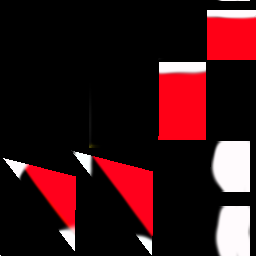
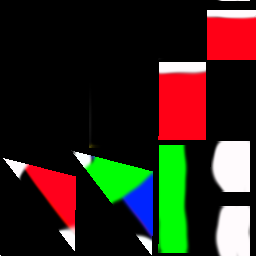
Fixed texture coords, added in place framework for normals, though they don't draw yet.

Changed region(s): [[0.3125, 0.5625, 0.75, 1.0]]

diff --git a/src/com/discretesoftworks/framework/RenderModel.java b/src/com/discretesoftworks/framework/RenderModel.java
@@ -21,48 +21,58 @@ public class RenderModel extends GriddedObject{
 	
 	
     private final String vertexShaderCode =
-   		//Test
     	"attribute vec2 a_TexCoordinate;" +
     	"varying vec2 v_TexCoordinate;" +
-    	//End Test
+    	"varying vec4 lightness;" +
+    	
+    	//Lights
+    	"uniform vec4 lightPos;"+
+    	"uniform vec4 lightColor;"+
 
-        "uniform mat4 uMVPMatrix;" +
+        "uniform mat4 uMMatrix;" +
+        "uniform mat4 uVPMatrix;" +
 
         "attribute vec4 vPosition;" +
         "void main() {" +
-
-        "  gl_Position = uMVPMatrix * vPosition;" +
-		      //Test
-		      "v_TexCoordinate = a_TexCoordinate;" +
-		      //End Test
+        "  vec4 worldPos = uMMatrix * vPosition;"+
+        "  gl_Position = uVPMatrix * worldPos;" +
+		"  v_TexCoordinate = a_TexCoordinate;" +
+		"  vec4 normal = vec4(0.0,0.0,1.0,0.0);"+
+        "  float distance = length(lightPos-worldPos);"+
+        "  float dottedAngle = dot(normalize(lightPos-worldPos),normal);" +
+		"  lightness = (lightColor * dottedAngle) * (1.0 / (1.0 + distance * distance));"+
+        "  lightness = vec4(lightness.xyz,1.0);"+
         "}";
 
     private final String fragmentShaderCode =
         "precision mediump float;" +
         "uniform vec4 vColor;" +
-	      //Test
-	      "uniform sampler2D u_Texture;" +
-	      "varying vec2 v_TexCoordinate;" +
-	      //End Test
+	    "uniform sampler2D u_Texture;" +
+	    "varying vec2 v_TexCoordinate;" +
+	    "varying vec4 lightness;" +
+	    
         "void main() {" +
-        //"  gl_FragColor = vColor;" +
-        "gl_FragColor = (vColor * texture2D(u_Texture, v_TexCoordinate));" +
-        //"    gl_FragColor = vColor * vec4(v_TexCoordinate.x, v_TexCoordinate.y, 0, 1);"+
+        "  gl_FragColor = (lightness * vColor * texture2D(u_Texture, v_TexCoordinate));" +
         "}";
 
     private FloatBuffer vertexBuffer;
+    private FloatBuffer normalBuffer;
     private ShortBuffer drawListBuffer;
     private int mProgram;
     private int mPositionHandle;
     private int mColorHandle;
-    private int mMVPMatrixHandle;
+    private int mMMatrixHandle;
+    private int mVPMatrixHandle;
+    private int lightPosHandle;
+    private int lightColorHandle;
 
     // number of coordinates per vertex in this array
 
     static final int COORDS_PER_VERTEX = 3;
     //private PointF topLeft = new PointF(0,0);
     private float[] mModelMatrix = new float[16];
-    private float[] mvpMatrix = new float[16];
+    private float[] identityMatrix = new float[16];
+//    private float[] mvpMatrix = new float[16];
     private float[] coords; /*= { -0.5f,  0.5f, 0f,
             						 -0.5f, -0.5f, 0f,
             						  0.5f, -0.5f, 0f,
@@ -78,6 +88,7 @@ public class RenderModel extends GriddedObject{
     private final int vertexStride = COORDS_PER_VERTEX * 4; // 4 bytes per vertex
     
     private float[] texCoords;
+    private float[] normals;
 
     // Set color with red, green, blue and alpha (opacity) values
     float color[] = { .75f, .75f, .75f, 1.0f };
@@ -111,12 +122,15 @@ public class RenderModel extends GriddedObject{
         set = false;
         spin = true;
         newDir = dir = 0f;
+        
+        Matrix.setIdentityM(identityMatrix, 0);
     }
     
-    public void setupModel(float[] verts, float[] textureCoords, short[] indicies) {
+    public void setupModel(float[] verts, float[] normalCoords, float[] textureCoords, short[] indicies) {
     	coords = verts;
     	texCoords = textureCoords;
     	drawOrder = indicies;
+    	normals = normalCoords;
     	
     	// initialize vertex byte buffer for shape coordinates
         ByteBuffer bb = ByteBuffer.allocateDirect(
@@ -124,8 +138,17 @@ public class RenderModel extends GriddedObject{
                 coords.length * 4);
         bb.order(ByteOrder.nativeOrder());
         vertexBuffer = bb.asFloatBuffer();
-        setSize(coords);
+        vertexBuffer.put(coords);
+        vertexBuffer.position(0);
         
+        
+        ByteBuffer bn = ByteBuffer.allocateDirect(
+        					//#) of normal values * 4 bytes per float
+        					normals.length * 4);
+        bn.order(ByteOrder.nativeOrder());
+        normalBuffer = bn.asFloatBuffer();
+        normalBuffer.put(normals);
+        normalBuffer.position(0);
         
         // S, T (or X, Y)
         // Texture coordinate data.
@@ -175,12 +198,16 @@ public class RenderModel extends GriddedObject{
    			 					 -width, -height, 0f,
    			 					  width, -height, 0f,
    			 					  width,  height, 0f };
+    	float[] squareNormals = { 0.0f, 0.0f, 1.0f,
+    							  0.0f, 0.0f, 1.0f,
+    							  0.0f, 0.0f, 1.0f,
+    							  0.0f, 0.0f, 1.0f};
     	float[] textureCoords = { 0.0f,  0.0f,
    	        					  0.0f,  1.0f,
    	        					  1.0f,  1.0f,
    	        					  1.0f,  0.0f };
    	    short[] squareDrawOrder = { 0, 1, 2, 0, 2, 3 };
-   	    setupModel(squareCoords, textureCoords, squareDrawOrder);
+   	    setupModel(squareCoords, squareNormals, textureCoords, squareDrawOrder);
     }
     
     public void set(float x, float y, float width, float height){
@@ -268,10 +295,6 @@ public class RenderModel extends GriddedObject{
     	mTextureCoordinates.put(texCoords).position(0);
     }
     
-    public void setSize(float[] squareCoords){
-        vertexBuffer.put(squareCoords).position(0);
-    }
-    
     public void setHudElement(boolean h){
     	this.hudElement = h;
     	if (h)
@@ -334,24 +357,24 @@ public class RenderModel extends GriddedObject{
 	          	dir -= 360;
 	        else if (dir < -180)
 	           	dir += 360;
-            
+
 	        // Add program to OpenGL environment
 	        GLES20.glUseProgram(mProgram);
-	
+	        MyGLRenderer.checkGlError("glGetUniformLocation");
 	        // get handle to vertex shader's vPosition member
 	        mPositionHandle = GLES20.glGetAttribLocation(mProgram, "vPosition");
-	
+
 	        // Enable a handle to the triangle vertices
 	        GLES20.glEnableVertexAttribArray(mPositionHandle);
-	
+
 	        // Prepare the triangle coordinate data
 	        GLES20.glVertexAttribPointer(mPositionHandle, COORDS_PER_VERTEX,
 	                                     GLES20.GL_FLOAT, false,
 	                                     vertexStride, vertexBuffer);
-	
+
 	        // get handle to fragment shader's vColor member
 	        mColorHandle = GLES20.glGetUniformLocation(mProgram, "vColor");
-	
+
 	        // Set color for drawing the triangle
 	        GLES20.glUniform4fv(mColorHandle, 1, color, 0);
 	        
@@ -359,6 +382,7 @@ public class RenderModel extends GriddedObject{
 	        //Set Texture Handles and bind Texture
 	        mTextureUniformHandle = GLES20.glGetAttribLocation(mProgram, "u_Texture");
 	        mTextureCoordinateHandle = GLES20.glGetAttribLocation(mProgram, "a_TexCoordinate");
+
 
 	        //Set the active texture unit to texture unit 0.
 	        GLES20.glActiveTexture(GLES20.GL_TEXTURE0);
@@ -378,18 +402,25 @@ public class RenderModel extends GriddedObject{
 	        GLES20.glBlendFunc(GLES20.GL_ONE, GLES20.GL_ONE_MINUS_SRC_ALPHA);
 	        GLES20.glEnable(GLES20.GL_BLEND);
 	        
+	        //Pass in lights
+	        lightPosHandle = GLES20.glGetUniformLocation(mProgram, "lightPos");
+	        lightColorHandle = GLES20.glGetUniformLocation(mProgram, "lightColor");
+	        GLES20.glUniform4f(lightPosHandle, 50.0f, 50.0f, 500.0f, 1.0f);
+	        GLES20.glUniform4f(lightColorHandle, 300000.0f, 300000.0f, 300000.0f, 1.0f);
 	
-	        // get handle to shape's transformation matrix
-	        mMVPMatrixHandle = GLES20.glGetUniformLocation(mProgram, "uMVPMatrix");
+	        // get handle to shape's transformation matrixs
+	        mMMatrixHandle = GLES20.glGetUniformLocation(mProgram, "uMMatrix");
+	        mVPMatrixHandle = GLES20.glGetUniformLocation(mProgram, "uVPMatrix");
 	        MyGLRenderer.checkGlError("glGetUniformLocation");
 	        
-	        if (!getHudElement())
-	        	Matrix.multiplyMM(mvpMatrix, 0, vpMatrix, 0, mModelMatrix, 0);
-	        else
-	        	mvpMatrix = mModelMatrix;
-	        
 	        // Apply the projection and view transformation
-	        GLES20.glUniformMatrix4fv(mMVPMatrixHandle, 1, false, mvpMatrix, 0);
+	        if (!getHudElement()) {
+	        	GLES20.glUniformMatrix4fv(mMMatrixHandle, 1, false, mModelMatrix, 0);
+	        	GLES20.glUniformMatrix4fv(mVPMatrixHandle, 1, false, vpMatrix, 0);
+	        } else {
+	        	GLES20.glUniformMatrix4fv(mMMatrixHandle, 1, false, mModelMatrix, 0);
+	        	GLES20.glUniformMatrix4fv(mVPMatrixHandle, 1, false, identityMatrix, 0);
+	        }
 	        MyGLRenderer.checkGlError("glUniformMatrix4fv");
 	
 	        // Draw the square

diff --git a/src/com/discretesoftworks/framework/ModelLoader.java b/src/com/discretesoftworks/framework/ModelLoader.java
@@ -25,6 +25,7 @@ public class ModelLoader {
 		ArrayList<Float> vertexNormals = new ArrayList<Float>();
 		ArrayList<Short> faces = new ArrayList<Short>();
 		ArrayList<Short> facesTex = new ArrayList<Short>();
+		ArrayList<Short> facesNorm = new ArrayList<Short>();
 		
 		for (int i = 0; i < lines.length; i++) {
 			line = lines[i];
@@ -42,15 +43,17 @@ public class ModelLoader {
 				} else if (line.charAt(1) == 'n') {
 					//normal
 					vertexNormals.add(Float.parseFloat(coords[1]));
+					vertexNormals.add(-Float.parseFloat(coords[3]));
+					//Out of order to make z up
 					vertexNormals.add(Float.parseFloat(coords[2]));
-					vertexNormals.add(Float.parseFloat(coords[3]));
 				} else if (line.charAt(1) == 'p') {
 					//Parameter Space
 				} else {
 					//Regular vertex
 					positionCoords.add(Float.parseFloat(coords[1]));
+					positionCoords.add(-Float.parseFloat(coords[3]));
+					//Out of order to make z be up
 					positionCoords.add(Float.parseFloat(coords[2]));
-					positionCoords.add(Float.parseFloat(coords[3]));
 				}
 				break;
 			case 'f':
@@ -59,9 +62,11 @@ public class ModelLoader {
 				for (short j = 1; j < 4; j++) {
 					short positionIndex = (short)(Short.parseShort(tripIndic[j].split("/")[0]) - 1);
 					short texIndex = (short)(Short.parseShort(tripIndic[j].split("/")[1]) - 1);
+					short normIndex = (short)(Short.parseShort(tripIndic[j].split("/")[2]) - 1);
 
 					faces.add(positionIndex);
 					facesTex.add(texIndex);
+					facesNorm.add(normIndex);
 				}
 				
 				break;
@@ -94,18 +99,23 @@ public class ModelLoader {
 			}
 		}
 		float[] verticiesArray = new float[(textureCoords.size()/2)*3];
-		float[] texCoords = new float[textureCoords.size()];
+		float[] normalsArray = new float[(textureCoords.size()/2)*3];
+		float[] texArray = new float[textureCoords.size()];
 		short[] indiciesArray = new short[facesTex.size()];
 		for (int i = 0; i < textureCoords.size(); i++) {
-			texCoords[i] = textureCoords.get(i);
+			texArray[i] = textureCoords.get(i);
 		}
 		for (int i = 0; i < facesTex.size(); i++) {
 			indiciesArray[i] = facesTex.get(i);
 			verticiesArray[facesTex.get(i)*3] = positionCoords.get(faces.get(i)*3);
 			verticiesArray[facesTex.get(i)*3+1] = positionCoords.get(faces.get(i)*3+1);
 			verticiesArray[facesTex.get(i)*3+2] = positionCoords.get(faces.get(i)*3+2);
+			
+			normalsArray[facesTex.get(i)*3] = vertexNormals.get(facesNorm.get(i)*3);
+			normalsArray[facesTex.get(i)*3+1] = vertexNormals.get(facesNorm.get(i)*3+1);
+			normalsArray[facesTex.get(i)*3+2] = vertexNormals.get(facesNorm.get(i)*3+2);
 		}
-		object.setupModel(verticiesArray, texCoords, indiciesArray);
+		object.setupModel(verticiesArray, normalsArray, texArray, indiciesArray);
 		object.setSprite(sprite);
 		
 		return object;

diff --git a/src/com/discretesoftworks/framework/Terrain.java b/src/com/discretesoftworks/framework/Terrain.java
@@ -105,7 +105,15 @@ public class Terrain extends GameObject{
 				indicies[j++] = (short)heightMap.getIndex(r+1, c+1);
 			}
 		}
-		getModel().setupModel(verts, textureCoords, indicies);
+		//Nathan's Super Excellent Placeholder Code!
+		//End Nathan's Super Excellent Placeholder Code!
+		float[] normals = new float[verts.length];
+		for (int n = 0; n < normals.length; n+=3) {
+			normals[n] = 0.0f;
+			normals[n+1] = 0.0f;
+			normals[n+2] = 1.0f;
+		}
+		getModel().setupModel(verts, normals, textureCoords, indicies);
 	}
 	
 	public void setHeight(float height, int r, int c){
